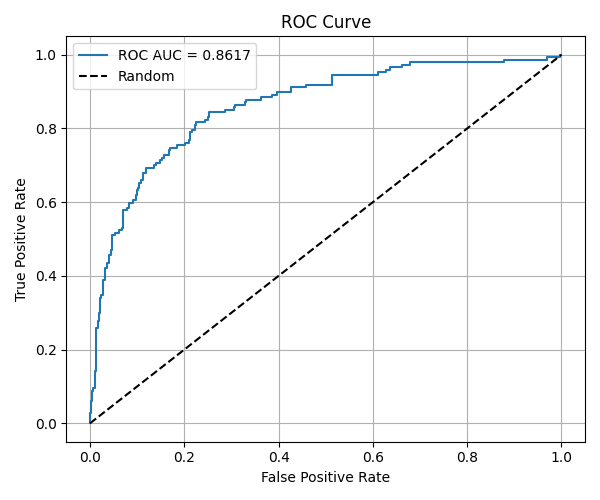
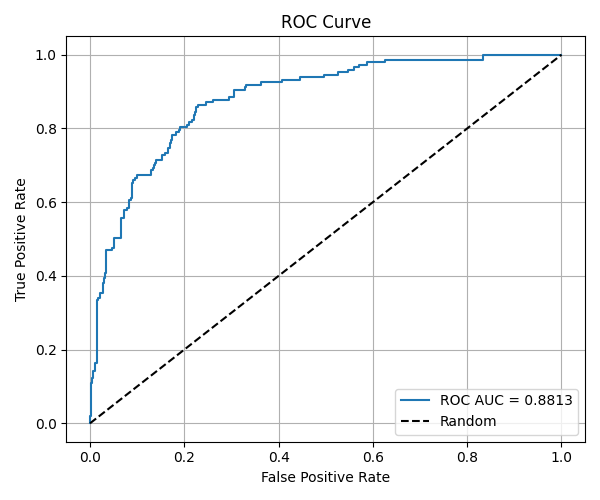
combined the cnn with a lstm bi directional, looks promising. also, it seems like the multidimensional block decomposition is less effective than the amino acid sequence alone

diff --git a/src/scripts/run_cnn_ppmclab_nobd.py b/src/scripts/run_cnn_ppmclab_nobd.py
@@ -2,6 +2,7 @@ import pickle
 
 import matplotlib.pyplot as plt
 import numpy as np
+import pandas as pd
 import torch
 import torch.nn as nn
 from sklearn.metrics import (
@@ -16,19 +17,54 @@ from sklearn.model_selection import train_test_split
 from sklearn.utils.class_weight import compute_class_weight
 from torch.utils.data import DataLoader, Dataset
 
-# Opening the data containing the block decomposition
-
-with open("./data/intermediate_data/llps_data_ppmclab_bd.pkl", "rb") as f:
+with open("./data/intermediate_data/ppmclab.pkl", "rb") as f:
     df = pickle.load(f)
 
-# Creating a Dataset class that will be used to yield one sample (a tensor of
-# shape num_of_features * max_len_of_seq)
+
+def map_sequence(sequence: str, mapping: dict) -> np.ndarray:
+    """
+    Returns the mapped sequence.
+
+    :param sequence: Amino Acid sequence.
+    :type sequence: str
+    :param mapping: Mapping for the Amino Acid sequence.
+    :type mapping: dict
+    :return: Array containing the mapped sequence.
+    :rtype: np.ndarray
+    """
+    return np.array([mapping.get(char) for char in sequence])
+
+
+AAMapping = {
+    "A": 0,
+    "C": 1,
+    "D": 2,
+    "E": 3,
+    "F": 4,
+    "G": 5,
+    "H": 6,
+    "I": 7,
+    "K": 8,
+    "L": 9,
+    "M": 10,
+    "N": 11,
+    "P": 12,
+    "Q": 13,
+    "R": 14,
+    "S": 15,
+    "T": 16,
+    "V": 17,
+    "W": 18,
+    "Y": 19,
+}
+
+df["mapped_seq"] = [map_sequence(seq, AAMapping) for seq in df["Full.seq"]]
 
 
 class ODCNNDataSet(Dataset):
     def __init__(self, df, label_col):
         self.df = df.reset_index(drop=True)
-        self.feature_columns = [col for col in self.df.columns if "4_vec" in col]
+        self.feature_column = "mapped_seq"
         self.label = self.df[label_col].astype(int)
         self.max_len = self.get_max_len()
 
@@ -40,17 +76,14 @@ class ODCNNDataSet(Dataset):
         :return: Max Sequence Length.
         :rtype: int
         """
-        arrays = [
-            torch.tensor(x) for col in df.columns if "4_vec" in col for x in df[col]
-        ]
+        arrays = [torch.tensor(x) for x in df[self.feature_column]]
         return max(arr.shape[0] for arr in arrays)
 
     def create_tensor(self, idx):
-        channels = [self.df[channel][idx] for channel in self.feature_columns]
-        length = len(channels[0])
+        channel = self.df[self.feature_column][idx]
+        length = len(channel)
         padded_channels = [
-            torch.tensor(np.append(channel, np.repeat(-2, self.max_len - length)))
-            for channel in channels
+            torch.tensor(np.append(channel, np.repeat(-1, self.max_len - length)))
         ]
         return torch.stack(padded_channels)
 
@@ -87,11 +120,10 @@ class NeuralNetwork(nn.Module):
         kernel_size,
         num_classes,
         dropout=0.3,
-        nhead=4,
-        num_layers=1,
+        lstm_hidden_size=64,
+        lstm_layers=1,
     ):
         super().__init__()
-        # Embedding layers
         self.embeddings = nn.ModuleList(
             [
                 nn.Embedding(num_categories, embedding_dim)
@@ -99,19 +131,27 @@ class NeuralNetwork(nn.Module):
             ]
         )
 
-        # First convolutional block
+        # BiLSTM
+        self.lstm = nn.LSTM(
+            input_size=embedding_dim * num_channels,
+            hidden_size=lstm_hidden_size,
+            num_layers=lstm_layers,
+            bidirectional=True,
+            batch_first=True,
+        )
+
+        # CNN blocks (input channels = 2 * lstm_hidden_size due to bidirectional LSTM)
         self.conv1 = nn.Conv1d(
-            in_channels=embedding_dim * num_channels,
+            in_channels=2 * lstm_hidden_size,
             out_channels=conv_out_channels,
             kernel_size=kernel_size,
-            padding=kernel_size // 2,  # Maintains sequence length
+            padding=kernel_size // 2,
         )
         self.pool1 = nn.MaxPool1d(kernel_size=2, stride=2)
 
-        # Second convolutional block
         self.conv2 = nn.Conv1d(
             in_channels=conv_out_channels,
-            out_channels=conv_out_channels * 2,  # Double channels
+            out_channels=conv_out_channels * 2,
             kernel_size=kernel_size,
             padding=kernel_size // 2,
         )
@@ -121,8 +161,7 @@ class NeuralNetwork(nn.Module):
         self.global_pool = nn.AdaptiveAvgPool1d(1)
         self.dropout = nn.Dropout(dropout)
 
-        # Enhanced classifier
-        self.fc1 = nn.Linear(conv_out_channels * 2, 128)  # Additional hidden layer
+        self.fc1 = nn.Linear(conv_out_channels * 2, 128)
         self.fc2 = nn.Linear(128, num_classes)
 
     def forward(self, x):
@@ -131,27 +170,29 @@ class NeuralNetwork(nn.Module):
         # Embedding
         embedded_channels = []
         for i in range(num_channels):
-            emb = self.embeddings[i](x[:, i])
+            emb = self.embeddings[i](x[:, i])  # (batch, seq_len, emb_dim)
             embedded_channels.append(emb)
-        x_emb = torch.cat(embedded_channels, dim=-1)
-        x_emb = x_emb.permute(0, 2, 1)
 
-        # First conv block
-        x = self.conv1(x_emb)
+        x_emb = torch.cat(embedded_channels, dim=-1)  # (batch, seq_len, total_emb_dim)
+
+        # BiLSTM
+        lstm_out, _ = self.lstm(x_emb)  # (batch, seq_len, 2 * hidden_size)
+
+        # CNN expects (batch, channels, seq_len)
+        x = lstm_out.permute(0, 2, 1)
+
+        x = self.conv1(x)
         x = self.relu(x)
         x = self.pool1(x)
 
-        # Second conv block
         x = self.conv2(x)
         x = self.relu(x)
         x = self.pool2(x)
 
-        # Global pooling and classification
         x = self.global_pool(x)
         x = x.squeeze(-1)
         x = self.dropout(x)
 
-        # Enhanced classifier
         x = self.fc1(x)
         x = self.relu(x)
         x = self.dropout(x)
@@ -162,15 +203,17 @@ class NeuralNetwork(nn.Module):
 
 # Create the model
 num_categories_per_channel = [
-    df[mapping].explode().nunique() + 1 for mapping in df.columns if "4_vec" in mapping
+    df[mapping].explode().nunique() + 1
+    for mapping in df.columns
+    if "mapped_seq" in mapping
 ]
 
 model = NeuralNetwork(
     num_channels=len(num_categories_per_channel),
     num_categories_per_channel=num_categories_per_channel,
-    embedding_dim=20,
-    conv_out_channels=64,
-    kernel_size=10,
+    embedding_dim=40,
+    conv_out_channels=32,
+    kernel_size=5,
     num_classes=2,
 )
 

diff --git a/src/scripts/prepare_pspire.py b/src/scripts/prepare_pspire.py
@@ -1,68 +1,49 @@
-# import pickle
-# import sys
-# from io import StringIO
-#
-# import pandas as pd
-# import requests
-# from Bio import SeqIO
-#
-# df = pd.read_csv("./data/raw_data/ps_pire_data.csv")
-#
-# print(f"Data set contains {len(df)} sequences.")
-#
-#
-# def get_sequence(id):
-#
-#     requestURL = (
-#         f"https://www.ebi.ac.uk/proteins/api/proteins?offset=0&size=1&accession={id}"
-#     )
-#     r = requests.get(requestURL, headers={"Accept": "text/x-fasta"})
-#
-#     if not r.ok:
-#         r.raise_for_status()
-#         sys.exit()
-#
-#     responseBody = r.text
-#     fasta = SeqIO.read(StringIO(responseBody), "fasta")
-#     return fasta.seq
-#
-#
-# df["seq"] = df["UniprotEntry"].apply(get_sequence)
-#
-# df["seq"] = df["UniprotEntry"].apply(get_sequence)
-#
-# print(f"{len(df)} sequences were downloaded.")
-#
-# with open("./data/intermediate_data/ps_pire_data.pkl", "wb") as f:
-#     pickle.dump(df, f)
-
-
-import json
 import sys
 
+import pandas as pd
 import requests
 
-params = {
-    "query": "accession:O95613 OR accession:P08047",
-    "fields": ["sequence"],
-    "sort": "accession desc",
-    "size": "100",
-}
-headers = {"accept": "application/json"}
-base_url = "https://rest.uniprot.org/uniprotkb/search"
 
-response = requests.get(base_url, headers=headers, params=params)
-if not response.ok:
-    response.raise_for_status()
-    sys.exit()
+def main():
+    df = pd.read_csv("./data/raw_data/pspire.csv")
 
-data = response.json()
+    df_with_seq = pd.DataFrame()
+    counter = 0
+    protein_list = []
+    for protein in df["UniprotEntry"]:
+        counter += 1
+        protein_list.append(protein)
+        if counter == 100:
+            df_slice = get_sequences(protein_list)
+            counter = 0
+            df_with_seq._append(df_slice)
+    print(df)
 
-for item in data["results"]:
-    print(item["primaryAccession"])
-# print(data["results"][0]["primaryAccession"])
-# sequence = data["results"][0]["sequence"]["value"]
-# print(sequence)
-# print(data["results"][1]["primaryAccession"])
-# sequence = data["results"][1]["sequence"]["value"]
-# print(sequence)
+
+def get_sequences(protein_list: list) -> pd.DataFrame:
+    query = " OR ".join(f"accession:{protein}" for protein in protein_list)
+    params = {
+        "query": query,
+        "fields": ["sequence"],
+        "sort": "accession desc",
+        "size": "100",
+    }
+    headers = {"accept": "application/json"}
+    base_url = "https://rest.uniprot.org/uniprotkb/search"
+
+    response = requests.get(base_url, headers=headers, params=params)
+    if not response.ok:
+        response.raise_for_status()
+        sys.exit()
+
+    data = response.json()
+    ids = [id["primaryAccession"] for id in data["results"]]
+    seq = [seq["sequence"]["value"] for seq in data["results"]]
+
+    df = pd.DataFrame({"id": ids, "seq": seq})
+
+    return df
+
+
+if __name__ == "__main__":
+    main()
